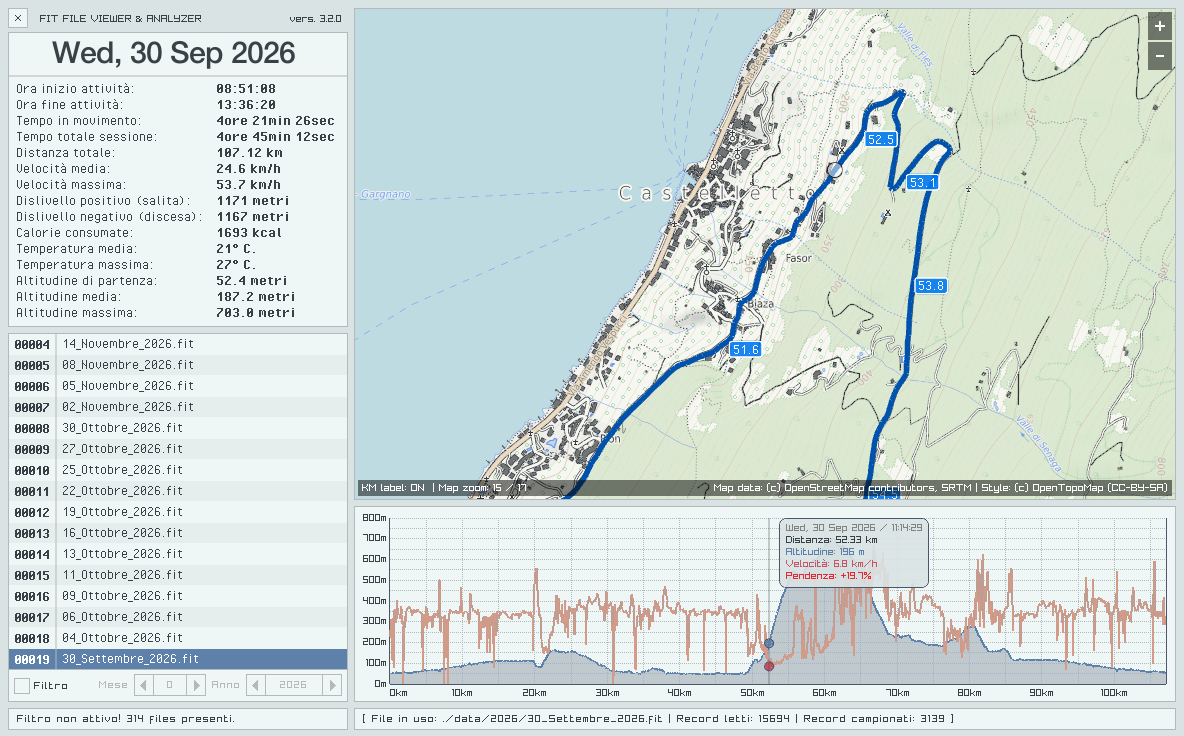
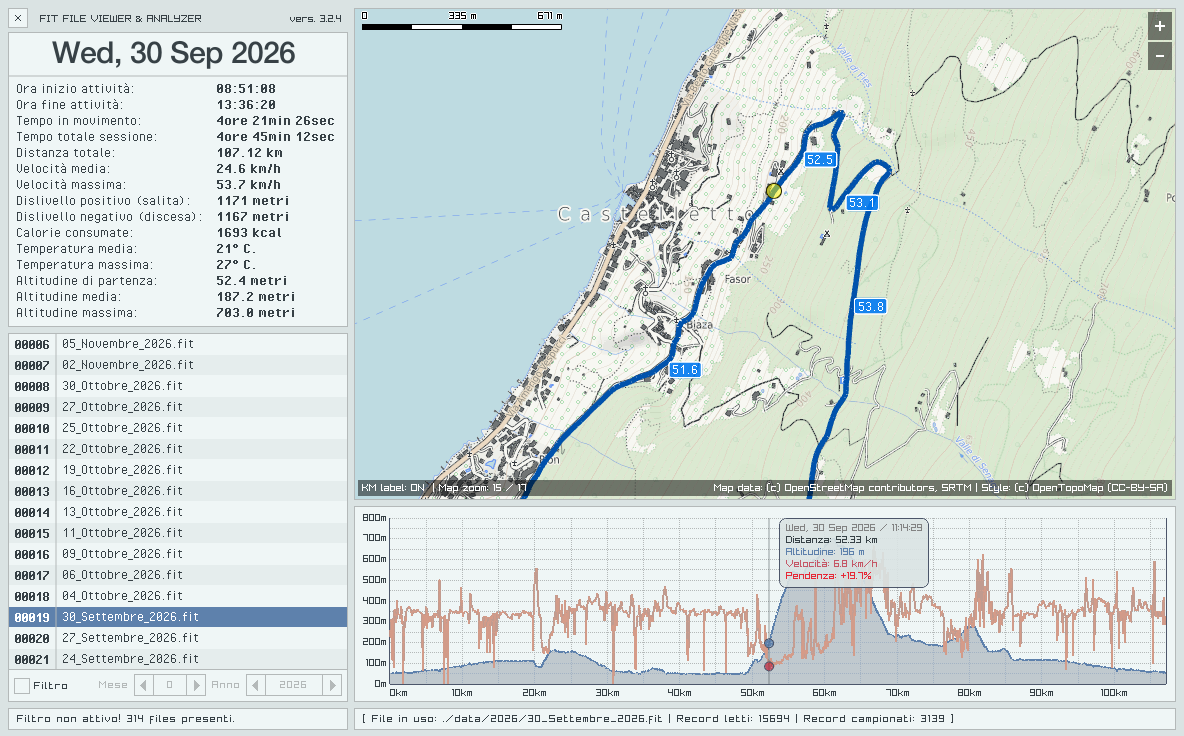
updated some screenshots

diff --git a/fitview/fitview.c b/fitview/fitview.c
@@ -674,7 +674,7 @@ while (!WindowShouldClose())
                         LatLonToWorldPixel(puntiGps[selectedPointIdx].lat, puntiGps[selectedPointIdx].lon, zoom, &pointX, &pointY);
                         Vector2 pPoint = { mapRect.x + (float)(pointX - topLeftWorldX), mapRect.y + (float)(pointY - topLeftWorldY)};
                         Vector2 posOrigin = {gpsIcon.width -(gpsIcon.width/2), gpsIcon.height-(gpsIcon.height/2)};
-                        DrawTexturePro(gpsIcon, (Rectangle){ 0, 0, gpsIcon.width, gpsIcon.height }, (Rectangle){ pPoint.x, pPoint.y, 16, 16 },  posOrigin, 0.0f, WHITE );
+                        DrawTexturePro(gpsIcon, (Rectangle){ 0, 0, gpsIcon.width, gpsIcon.height }, (Rectangle){ pPoint.x, pPoint.y, 16, 16 },  posOrigin, 0.0f, YELLOW );
 
 
                     //start traccia con bandierina
